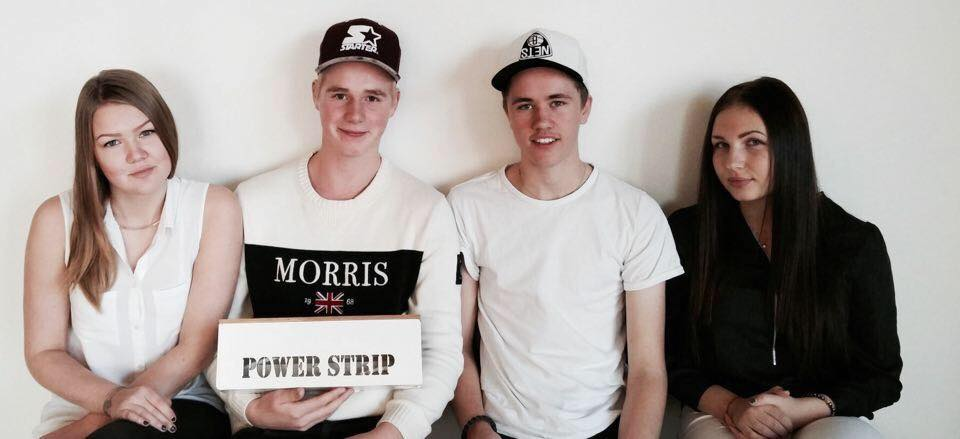
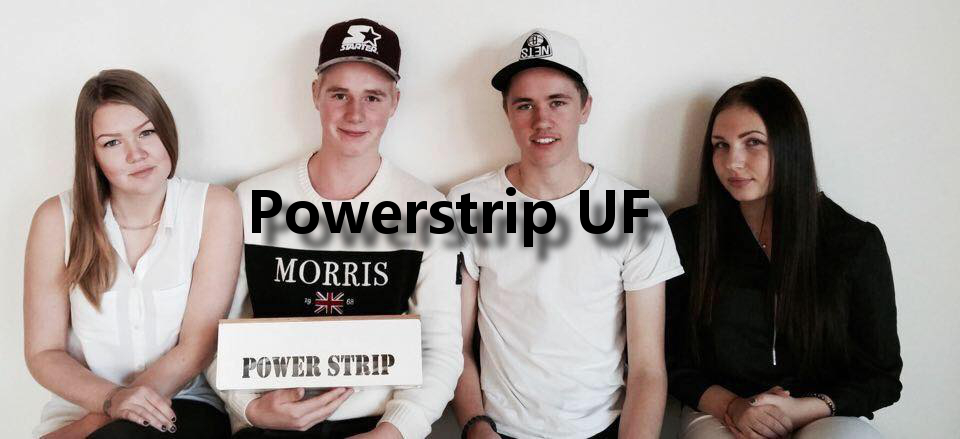
FirstFix
Små ändringar

Changed region(s): [[0.25, 0.4146, 0.7188, 0.5923]]

diff --git a/HTML/företag.html b/HTML/företag.html
@@ -42,7 +42,7 @@
 						<button class="dl-trigger">Open Menu</button>
 						<ul class="dl-menu">
 							<li>
-								<a href="../Index.html">Hem</a>
+								<a href="../index.html">Hem</a>
 							</li>
 							<li>
 								<a href="f%C3%B6retag.html">Företag</a>
@@ -123,7 +123,6 @@
     
     <div class="container-fluid vit-text foretag-1 no-padding relative">
         <div class="col-sm-12 hojd-600 bild1 shadow">
-            <h1 class="text-center vertikal-center-text SvartText"> Vi är PowerStrip UF </h1>
         </div>  
                   
        <div class="container relative">
@@ -211,7 +210,7 @@ Marcus är den mest sociala av oss, han gillar att träffa och lära känna nya 
 William är en framåtriktad, positiv och problemlösande kille. Han älskar att hitta på nya idéer och är duktig på formgivning, han är duktig på att visa hur han tänker med hjälp av 3D-prototyper i datorn. William involverar sig gärna också i marknadsföring, då det är ett intresse. Därför passar rollen som marnkkadsansvarig.</p>
 
 <p>Albin Olsson (Produktionsansvarig):
-Albin beskrivs som en aktiv, positiv och social kille. Tar gärna hjälp av verktyg för att lösa sina problem. Att framställa produkter och arbeta praktiskt är områdena som verkligen lyser upp Albins förmågor. Hans roll i företaget är produktionsansvarig, inköpsansvarig samt monteringsansvarig och det är en väldigt passande roll.</p> <p>Facebook: Garden Light UF</p><br><br><br><br>
+Albin beskrivs som en aktiv, positiv och social kille. Tar gärna hjälp av verktyg för att lösa sina problem. Att framställa produkter och arbeta praktiskt är områdena som verkligen lyser upp Albins förmågor. Hans roll i företaget är produktionsansvarig, inköpsansvarig samt monteringsansvarig och det är en väldigt passande roll.</p><p> </p> <br><br><br><br><br><br>
 
                     
                 </div>
@@ -222,7 +221,7 @@ Albin beskrivs som en aktiv, positiv och social kille. Tar gärna hjälp av verk
                     <h2 class="text-center">Vår produkt och vision</h2>
                      <img src="../images/kommerSnart.png" alt="produkt" height="210px" width="400px" class="margin produkt">
                     <p class="text-center">Vår produkt är en trädgårdslampa i betong med mycket unik design som förgyller trädgårdar. Den är även stilren och cool.</p> <p>Pris: 200-300 kr</p> <p>Våra mål och vår vision är att tjäna en slant, producera dom och få dom sålda. Vi vill helst sälja  minst 10 st. 
-</p> <p>Vår idé kom till när vi såg en askkopp som låg bredvid vår arbetsbänk och då tänkte vi att det skulle kunna bli en bra lampa</p><p>Facebook: Garden Light UF</p>
+</p> <p>Vår idé kom till när vi såg en askkopp som låg bredvid vår arbetsbänk och då tänkte vi att det skulle kunna bli en bra lampa</p><p>Facebook: Garden Light UF</p><br>
 
                     
                 </div>

diff --git a/HTML/OmOss.html b/HTML/OmOss.html
@@ -43,7 +43,7 @@
 						<button class="dl-trigger">Open Menu</button>
 						<ul class="dl-menu">
 							<li>
-								<a href="../Index.html">Hem</a>
+								<a href="../index.html">Hem</a>
 							</li>
 							<li>
 								<a href="f%C3%B6retag.html">Företag</a>
@@ -66,7 +66,7 @@
     <div id="sok-bg"></div>
     <div id="sok">
       <h2>Om oss bakom sidan Gripen UF</h2>
-      <h4>Vi är fyra elever från Nyköpings Gymnasium som har valt att göra en hemsida som samlar alla skolans UF-företag. Detta har vi gjort för att man enklare ska kunna få en överblick.</h4>
+      <h4>Vi är fyra elever från Nyköpings Gymnasium som har valt att göra en hemsida som samlar alla skolans UF-företag. Detta har vi gjort för att man enklare ska kunna få en överblick över skolans UF-företag.</h4>
     </div>
   </div>
 </div>

diff --git a/HTML/kontakta.html b/HTML/kontakta.html
@@ -52,7 +52,7 @@
 						<button class="dl-trigger">Open Menu</button>
 						<ul class="dl-menu">
 							<li>
-								<a href="../Index.html">Hem</a>
+								<a href="../index.html">Hem</a>
 							</li>
 							<li>
 								<a href="f%C3%B6retag.html">Företag</a>

diff --git a/css/hemabygge.css b/css/hemabygge.css
@@ -334,11 +334,12 @@ box-shadow:         0px 12px 16px 0px rgba(0, 0, 0, 1);
 
 .Kontakta {
     color: white;
+    margin-top: -50px;
 }
 
 .container h1 img {
     width: 43%;
-    margin-top: -70px;
+    margin-top: -100px;
 }
 
 .container p img {
